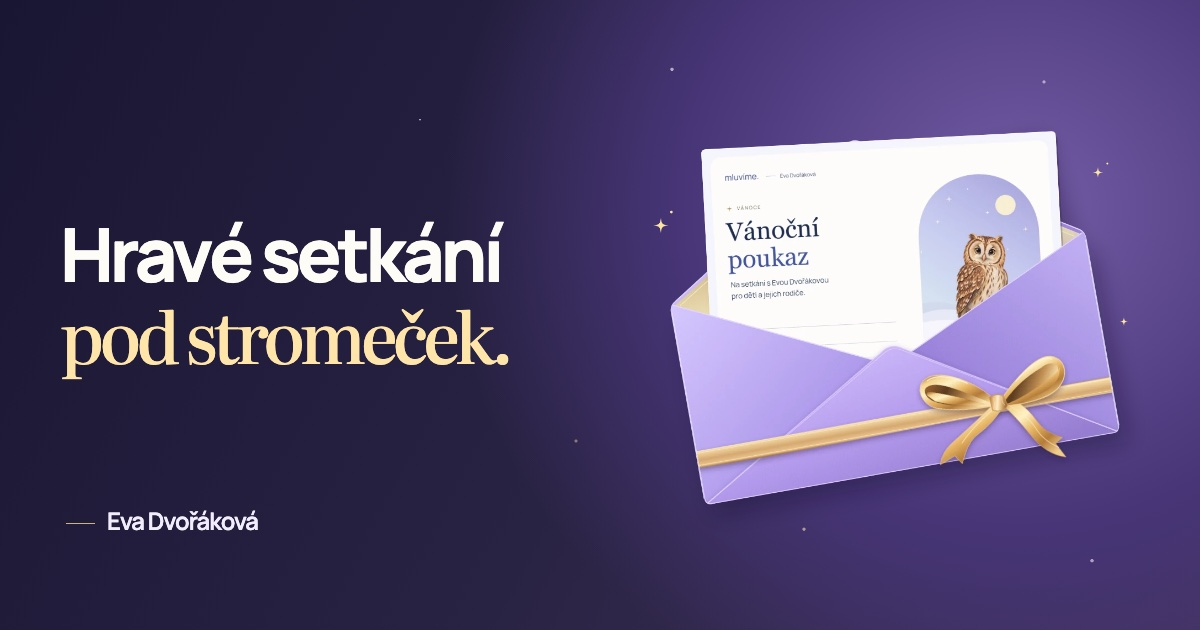
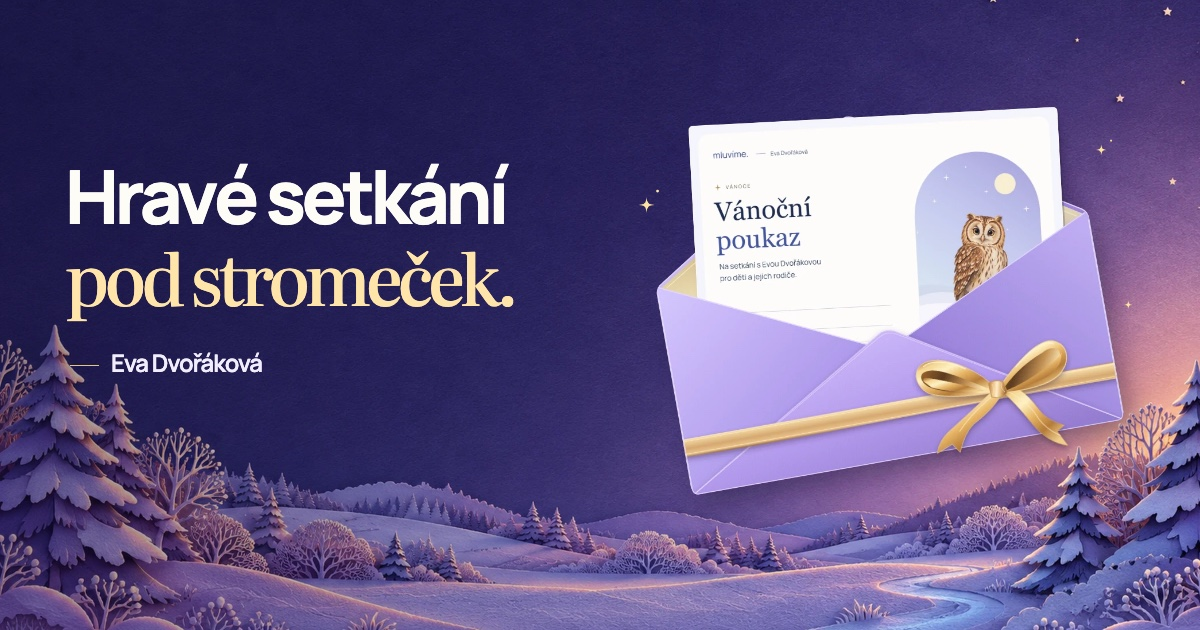
Vánoční poukaz v ilustrované zimní krajině pro mobil i počítač

diff --git a/advent.css b/advent.css
@@ -27,14 +27,6 @@
     radial-gradient(circle at 94% 82%, #fff8 0 1.2px, transparent 2px),
     radial-gradient(circle at 42% 91%, #fff8 0 1px, transparent 1.7px);
 }
-.gift-stars::before, .gift-stars::after {
-  content: '';
-  display: block;
-  width: 1.15em;
-  aspect-ratio: 1;
-  background: currentColor;
-  clip-path: polygon(50% 0, 59% 39%, 100% 50%, 60% 59%, 50% 100%, 41% 60%, 0 50%, 40% 41%);
-}
 .gift-save {
   display: inline-flex;
   justify-content: center;
@@ -71,7 +63,7 @@ body.modern-site .gift-banner .gift-banner-copy h2 {
   color: #fffaf4;
   letter-spacing: -.05em;
 }
-body.modern-site .gift-banner .gift-banner-copy h2 em, .gift-hero-copy h1 em {
+body.modern-site .gift-banner .gift-banner-copy h2 em {
   display: block;
   color: var(--gift-gold);
   font-family: Literata, Georgia, serif;
@@ -93,47 +85,115 @@ body.modern-site .gift-banner .gift-banner-copy h2 em, .gift-hero-copy h1 em {
 .gift-page, .gift-page * { box-sizing: border-box; }
 .gift-page {
   margin: 0;
-  padding: 0 clamp(14px, 3vw, 56px) 32px;
-  color: #22223b;
-  background: #f9f8f4;
+  color: #fbf6ee;
+  background: #191830;
   font: 450 16px/1.55 Manrope, -apple-system, sans-serif;
   -webkit-text-size-adjust: 100%;
 }
-.gift-page a:focus-visible, .gift-page button:focus-visible {
-  outline: 3px solid #7152ae; outline-offset: 4px;
+.gift-page :is(a, button):focus-visible {
+  outline: 3px solid #e4b971;
+  outline-offset: 5px;
 }
 .gift-skip { position: fixed; z-index: 4; top: 10px; left: 14px; padding: 8px 14px; background: white; color: #211c43; transform: translateY(-180%); }
 .gift-skip:focus { transform: none; }
-.gift-nav, .gift-hero { max-width: 1360px; margin-inline: auto; }
-.gift-nav { display: flex; align-items: center; justify-content: space-between; gap: 12px; padding: 12px 5px; min-height: 78px; }
-.gift-brand, .gift-back { display: inline-flex; align-items: center; min-height: 44px; color: #25213e; text-decoration: none; }
-.gift-brand { gap: 10px; font-size: 21px; font-weight: 780; letter-spacing: -.06em; }
-.gift-brand img { display: block; border-radius: 8px; }
-.gift-back { gap: 8px; font-size: 14px; font-weight: 620; }
-.gift-back:hover { text-decoration: underline; }
+.gift-scene {
+  position: relative;
+  isolation: isolate;
+  overflow: hidden;
+  display: flex;
+  flex-direction: column;
+  min-height: 100vh;
+  min-height: 100svh;
+  background: radial-gradient(ellipse at 78% 51%, #735983 0%, #413555 39%, #191830 87%);
+}
+.gift-landscape {
+  position: absolute;
+  inset: 0;
+  z-index: -2;
+  display: block;
+  pointer-events: none;
+}
+.gift-landscape img { width: 100%; height: 100%; display: block; object-fit: cover; object-position: center bottom; }
+.gift-scene::before {
+  position: absolute;
+  z-index: -1;
+  inset: 0;
+  content: "";
+  pointer-events: none;
+  background: linear-gradient(90deg, #17152e48, transparent 57%);
+}
+.gift-nav, .gift-hero { width: min(88%, 1480px); margin-inline: auto; }
+.gift-nav {
+  display: flex;
+  align-items: center;
+  justify-content: space-between;
+  gap: 12px;
+  padding-block: clamp(12px, 2vh, 23px);
+  border-bottom: 1px solid #fff3d62e;
+}
+.gift-brand, .gift-back {
+  display: inline-flex; align-items: center; gap: 10px;
+  min-height: 44px; color: #fbf7f1; text-decoration: none;
+}
+.gift-brand { font-size: clamp(18px, 1.65vw, 23px); font-weight: 650; letter-spacing: -.04em; }
+.gift-brand img { display: block; border-radius: 9px; }
+.gift-back { font-size: 14px; font-weight: 570; }
+.gift-back:hover { text-decoration: underline; text-underline-offset: .3em; }
+.gift-scene main { flex: 1; display: grid; align-items: center; }
 .gift-hero {
   display: grid;
-  grid-template-columns: 1.04fr 1fr;
+  grid-template-columns: minmax(0, 1fr) minmax(0, 1.12fr);
   align-items: center;
-  padding: clamp(42px, 5vw, 84px) clamp(30px, 5.4vw, 78px);
-  border-radius: 36px;
-  min-height: clamp(470px, 42vw, 610px);
+  gap: clamp(6px, 1.3vw, 20px);
+  padding: clamp(32px, 6vh, 80px) 0 clamp(82px, 15vh, 190px);
 }
 .gift-hero-copy { position: relative; z-index: 1; }
 .gift-hero-copy h1 {
   margin: 0;
   color: #fffaf4;
-  font: 760 clamp(43px, 4.7vw, 74px)/1.04 Manrope, sans-serif;
+  font: 675 clamp(48px, 5.45vw, 90px)/1.025 Manrope, sans-serif;
   letter-spacing: -.06em;
 }
-.gift-hero-copy h1 em { margin-top: .05em; line-height: 1.12; }
-.gift-lead { max-width: 39ch; margin: 20px 0 0; color: #ede9fb; font-size: clamp(16px, 1.3vw, 20px); line-height: 1.56; }
-.gift-visual { display: block; position: relative; min-width: 0; }
-.gift-envelope { display: block; position: relative; z-index: 1; width: 113%; max-width: none; height: auto; margin-left: -5%; }
-.gift-stars { position: absolute; inset: -5% -2%; color: var(--gift-gold); }
-.gift-stars::before { position: absolute; width: 18px; top: 2%; left: 32%; opacity: .95; }
-.gift-stars::after { position: absolute; width: 11px; right: 1%; bottom: 20%; opacity: .8; }
-.gift-page .gift-visual:focus-visible,
+.gift-hero-copy h1 em {
+  display: block;
+  margin-top: .12em;
+  font: 460 .91em/1.18 Literata, Georgia, serif;
+  color: #ffe2ad;
+  letter-spacing: -.058em;
+}
+.gift-lead {
+  max-width: 34ch;
+  margin: clamp(18px, 2.1vw, 32px) 0 0;
+  color: #efe8f4;
+  font-size: clamp(15px, 1.3vw, 20px);
+  line-height: 1.56;
+  text-wrap: balance;
+}
+.gift-visual {
+  isolation: isolate;
+  display: block;
+  position: relative;
+  min-width: 0;
+  border-radius: 24px;
+  -webkit-tap-highlight-color: transparent;
+}
+.gift-visual::before {
+  content: "";
+  position: absolute;
+  z-index: -1;
+  inset: -8% -12% -5%;
+  pointer-events: none;
+  background: radial-gradient(ellipse at 55% 49%, #f3d2bb39, #c6a1d71e 40%, transparent 69%);
+}
+.gift-envelope {
+  position: relative;
+  display: block;
+  width: 114%;
+  max-width: none;
+  height: auto;
+  margin-inline-start: -6%;
+  filter: drop-shadow(8px 22px 22px #18122f47);
+}
 body.modern-site .gift-banner:focus-visible { outline: 3px solid #b1914a; outline-offset: 3px; border-radius: 22px; }
 .gift-dialog {
   background: #fcfbf8;
@@ -157,26 +217,45 @@ body.modern-site .gift-banner:focus-visible { outline: 3px solid #b1914a; outlin
 .gift-save:hover { background: #423462; }
 @media (prefers-reduced-motion: no-preference) {
   .gift-envelope { transition: transform 220ms ease-out; }
-  .gift-visual:hover .gift-envelope { transform: translateY(-4px) rotate(1deg); }
+  @media (hover: hover) {
+    .gift-visual:hover .gift-envelope { transform: translateY(-5px) rotate(-1deg); }
+  }
   .gift-dialog[open] { animation: gift-open 240ms ease-out; }
   @keyframes gift-open { from { opacity: .2; transform: translateY(9px) scale(.99); } to { opacity: 1; transform: none; } }
 }
 @media (max-width: 760px) {
-  .gift-page { padding-inline: 12px; }
-  .gift-nav { min-height: 62px; padding-block: 5px; }
-  .gift-brand { font-size: 18px; gap: 6px; }
-  .gift-brand img { width: 24px; height: 24px; }
-  .gift-hero { grid-template-columns: 1fr; min-height: 0; padding: 28px 23px 14px; border-radius: 27px; }
-  .gift-hero-copy h1 { font-size: clamp(41px, 8.3vw, 56px); }
-  .gift-lead { margin: 16px 0 4px; }
-  .gift-visual { width: min(100%, 360px); margin: 14px auto 0; }
-  .gift-envelope { width: 100%; margin: 0; }
   body.modern-site .gift-banner { grid-template-columns: 1.15fr .85fr; gap: 0; padding: 16px; border-radius: 26px; }
   body.modern-site .gift-banner .gift-banner-copy h2 { font-size: clamp(25px, 5.6vw, 34px); margin-bottom: 0; }
   .gift-banner-copy { padding: 4px 0; }
   .gift-banner-art img { width: 116%; max-width: none; margin-inline-start: -3%; }
 }
-@media (max-width: 370px) {
-  .gift-hero { padding-inline: 17px; }
-  .gift-hero-copy h1 { font-size: 34px; }
+@media (min-width: 721px) and (min-height: 540px) {
+  .gift-hero-copy {
+    padding-inline-start: clamp(8px, 3.7vw, 52px);
+    transform: translateY(clamp(-68px, -7vh, -28px));
+  }
+}
+@media (max-width: 860px) and (orientation: portrait) {
+  .gift-nav, .gift-hero { width: calc(100% - 44px); }
+  .gift-nav { padding: max(7px, env(safe-area-inset-top)) 0 7px; }
+  .gift-brand { font-size: 18px; gap: 7px; }
+  .gift-brand img { width: 25px; height: 25px; }
+  .gift-back { font-size: 13px; }
+  .gift-hero {
+    grid-template-columns: 1fr;
+    gap: clamp(2px, 1.3vh, 14px);
+    padding: clamp(22px, 3.7vh, 45px) 0 clamp(55px, 11vh, 96px);
+  }
+  .gift-hero-copy { padding-inline-start: 4px; transform: none; }
+  .gift-hero-copy h1 { font-size: clamp(40px, 10.9vw, 70px); }
+  .gift-lead { margin-top: 14px; max-width: 32ch; font-size: clamp(14px, 3.8vw, 18px); }
+  .gift-visual { width: min(100%, 450px); margin-inline: auto; }
+  .gift-envelope { width: 108%; margin-inline-start: -4%; }
+}
+@media (max-height: 480px) and (orientation: landscape) {
+  .gift-nav { padding-block: 3px; }
+  .gift-hero { padding-block: 14px 28px; }
+  .gift-hero-copy h1 { font-size: clamp(35px, 5vw, 48px); }
+  .gift-visual { width: min(100%, 355px); justify-self: center; }
+  .gift-lead { margin-top: 12px; font-size: 14px; }
 }

diff --git a/vanocni-poukaz/index.html b/vanocni-poukaz/index.html
@@ -3,7 +3,7 @@
 <head>
   <meta charset="utf-8">
   <meta name="viewport" content="width=device-width, initial-scale=1, viewport-fit=cover">
-  <meta name="theme-color" content="#211c43">
+  <meta name="theme-color" content="#191830">
   <meta name="robots" content="noindex,nofollow">
   <title>Vánoční poukaz na hravé setkání | Eva Dvořáková</title>
   <meta name="description" content="Nahlédněte do vánočního poukazu na společné setkání dítěte a rodiče s Evou Dvořákovou.">
@@ -13,34 +13,39 @@
   <meta property="og:title" content="Hravé setkání s Evou pod stromeček">
   <meta property="og:description" content="Obrázky, povídání a jedna hra na doma. Prohlédněte si vánoční poukaz pro dítě a rodiče.">
   <meta property="og:url" content="https://sbzspace.github.io/eva-dvorakova-web/vanocni-poukaz/">
-  <meta property="og:image" content="https://sbzspace.github.io/eva-dvorakova-web/assets/poukaz/vanoce-sdileni.jpg?v=40">
+  <meta property="og:image" content="https://sbzspace.github.io/eva-dvorakova-web/assets/poukaz/vanoce-sdileni.jpg?v=42">
   <meta property="og:image:width" content="1200">
   <meta property="og:image:height" content="630">
   <meta property="og:image:alt" content="Vánoční poukaz Evy Dvořákové se sovičkou v dárkové obálce">
   <meta name="twitter:card" content="summary_large_image">
   <link rel="icon" href="../assets/favicon.svg" type="image/svg+xml">
   <link rel="preload" href="../assets/fonts/Manrope-Variable.woff2" as="font" type="font/woff2" crossorigin>
-  <link rel="stylesheet" href="../advent.css?v=poukaz-41">
+  <link rel="stylesheet" href="../advent.css?v=scena-42">
   <script src="./poukaz.js?v=40" defer></script>
 </head>
 <body class="gift-page">
   <a class="gift-skip" href="#obsah">Přejít k obsahu</a>
-  <header class="gift-nav">
-    <a class="gift-brand" href="../"><img src="../assets/favicon.svg" width="27" height="27" alt="">Eva Dvořáková</a>
-    <a class="gift-back" href="../"><span aria-hidden="true">←</span> Zpět na web</a>
-  </header>
-  <main id="obsah">
-    <section class="gift-hero gift-night" aria-labelledby="gift-title">
-      <div class="gift-hero-copy">
-        <h1 id="gift-title">Hravé setkání<br>s Evou <em>pod stromeček.</em></h1>
-        <p class="gift-lead">Obrázky, povídání a jedna hra na doma pro dítě a rodiče.</p>
-      </div>
-      <a class="gift-visual" href="../assets/poukaz/vanocni-poukaz-vzor.pdf" data-unwrap aria-label="Otevřít náhled vánočního poukazu">
-        <div class="gift-stars" aria-hidden="true"></div>
-        <img class="gift-envelope" src="../assets/poukaz/darkova-obalka.webp" width="1080" height="840" fetchpriority="high" alt="Vánoční poukaz se sovičkou vykukuje z obálky se zlatou stuhou.">
-      </a>
-    </section>
-  </main>
+  <div class="gift-scene">
+    <picture class="gift-landscape" aria-hidden="true">
+      <source media="(max-width: 860px) and (orientation: portrait)" srcset="../assets/poukaz/zimni-les-mobil.webp">
+      <img src="../assets/poukaz/zimni-les.webp" width="1800" height="1050" alt="" fetchpriority="high">
+    </picture>
+    <header class="gift-nav">
+      <a class="gift-brand" href="../"><img src="../assets/favicon.svg" width="30" height="30" alt="">Eva Dvořáková</a>
+      <a class="gift-back" href="../"><span aria-hidden="true">←</span> Zpět na web</a>
+    </header>
+    <main id="obsah">
+      <section class="gift-hero" aria-labelledby="gift-title">
+        <div class="gift-hero-copy">
+          <h1 id="gift-title">Hravé setkání<br>s Evou <em>pod stromeček.</em></h1>
+          <p class="gift-lead">Obrázky, povídání a jedna hra na doma pro dítě a rodiče.</p>
+        </div>
+        <a class="gift-visual" href="../assets/poukaz/vanocni-poukaz-vzor.pdf" data-unwrap aria-label="Otevřít náhled vánočního poukazu">
+          <img class="gift-envelope" src="../assets/poukaz/darkova-obalka.webp" width="1080" height="840" fetchpriority="high" alt="Vánoční poukaz se sovičkou vykukuje z obálky se zlatou stuhou.">
+        </a>
+      </section>
+    </main>
+  </div>
   <dialog class="gift-dialog" id="poukaz-detail" aria-label="Náhled vánočního poukazu">
     <div class="gift-dialog-top"><form method="dialog"><button class="gift-close" type="submit" aria-label="Zavřít náhled" autofocus>×</button></form></div>
     <img class="gift-paper" src="../assets/poukaz/vanocni-poukaz-vzor.webp" width="1380" height="973" fetchpriority="low" alt="Vzor poukazu na setkání s Evou pro děti a jejich rodiče, s místem pro jméno obdarovaného a dárce.">
